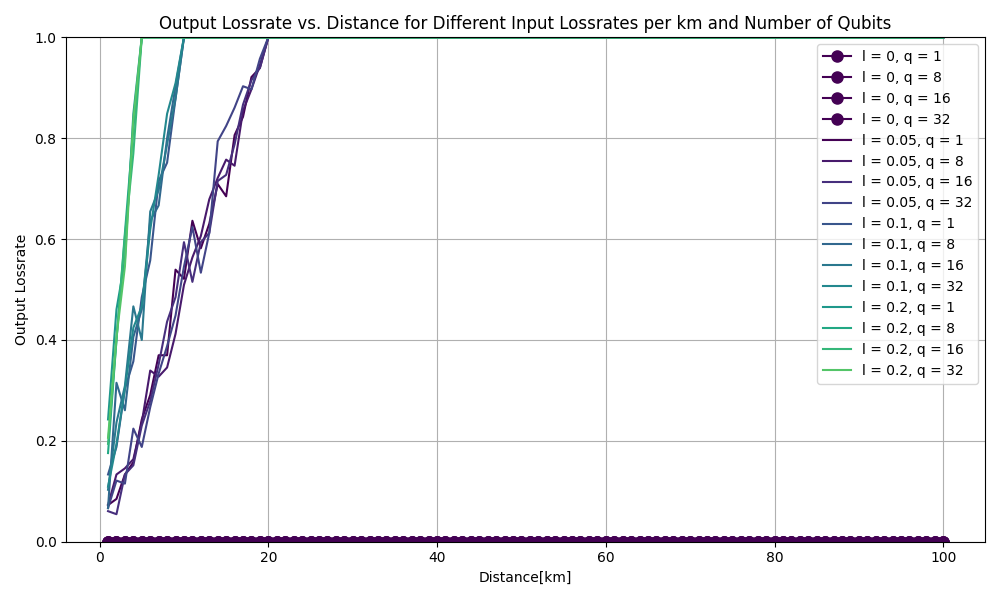
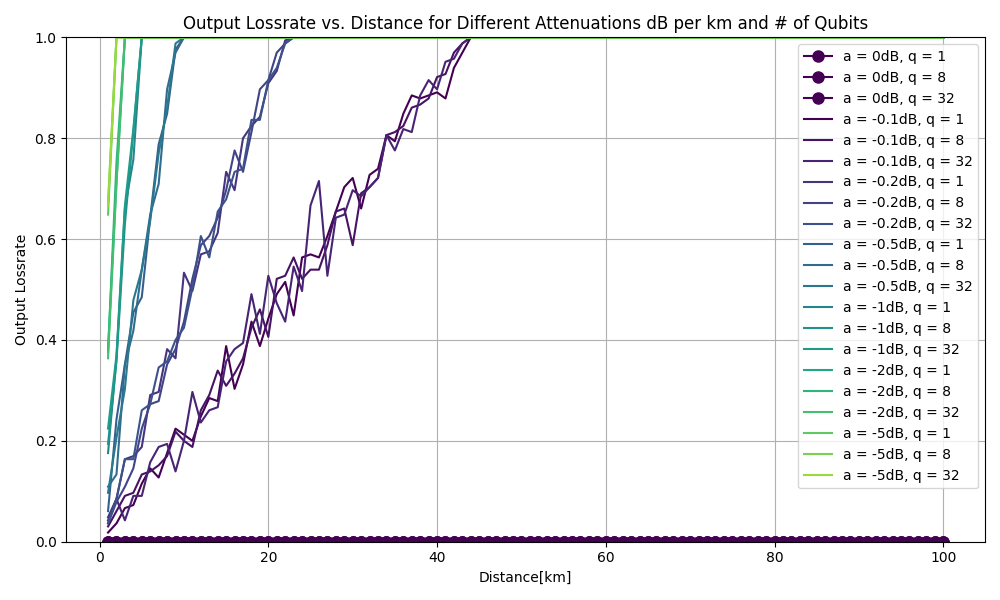
Attenuation

Changed region(s): [[0.093, 0.03, 0.961, 0.9], [0.372, 0.21, 0.403, 0.3]]

diff --git a/backend/plot.py b/backend/plot.py
@@ -8,7 +8,7 @@ def distribution_bb84():
 
     # Scenary table distance x loss_rate
     iter = 5
-    n_qubits = [1,8,16, 32]
+    n_qubits = [1,8,32]
     # |      | 0% | 5% | 10% | 20% |
     # |------|----|----|-----|-----|
     # | 1    | 1a | 1b | 1c  | 1d  |
@@ -17,14 +17,15 @@ def distribution_bb84():
     # | 32   | 4a | 4b | 4c  | 4d  |
 
     # Input lossrate
-    lossrate = [0,.05, .1, .2]
+    lossrate = [0,.1,.2, .5, 1, 2, 5]
+    attenuation = [1-10**(-l/10) for l in lossrate]
     distance = [x for x in range(1,101)]
     #distance = [.001,0.005, .01,0.05, 0.1,0.5, 1,5, 10,50, 100]
 
     df = pd.DataFrame(columns=['iter', 'n_qubits', 'input_lossrate', 'distance', 'output_lossrate'])
 
 
-    for l in lossrate:
+    for l in attenuation:
         measured_lossrate = []
         for q in n_qubits:
             for d in distance:
@@ -49,11 +50,12 @@ def distribution_bb84():
     # Iterate through the combinations and plot on the same axes
     for i, l in enumerate(lossrate):
         for j, q in enumerate(n_qubits):
-            x = df.loc[(df['input_lossrate'] == l) & (df['n_qubits'] == q), 'distance']
-            y = df.loc[(df['input_lossrate'] == l) & (df['n_qubits'] == q), 'output_lossrate']
+            x = df.loc[(df['input_lossrate'] == attenuation[i]) & (df['n_qubits'] == q), 'distance']
+            y = df.loc[(df['input_lossrate'] == attenuation[i]) & (df['n_qubits'] == q), 'output_lossrate']
             if not x.empty:
                 highlight_marker = 'o' if all(y == 0) else None
-                ax.plot(x, y, label=f'l = {l}, q = {q}', color=colors[color_index],
+                label = f'a = {l}dB, q = {q}' if all(y == 0) else f'a = -{l}dB, q = {q}'
+                ax.plot(x, y, label=label, color=colors[color_index],
                         marker=highlight_marker, markersize=8)
                 if not all(y == 0):
                     color_index += 1
@@ -61,7 +63,7 @@ def distribution_bb84():
     # Set labels and title for the single plot
     ax.set_xlabel('Distance[km]')
     ax.set_ylabel('Output Lossrate')
-    ax.set_title('Output Lossrate vs. Distance for Different Input Lossrates per km and Number of Qubits')
+    ax.set_title('Output Lossrate vs. Distance for Different Attenuations dB per km and # of Qubits')
     ax.set_ylim((0, 1))
     ax.legend() # Show the legend to identify the different lines
     ax.grid(True) # Add a grid for better readability
